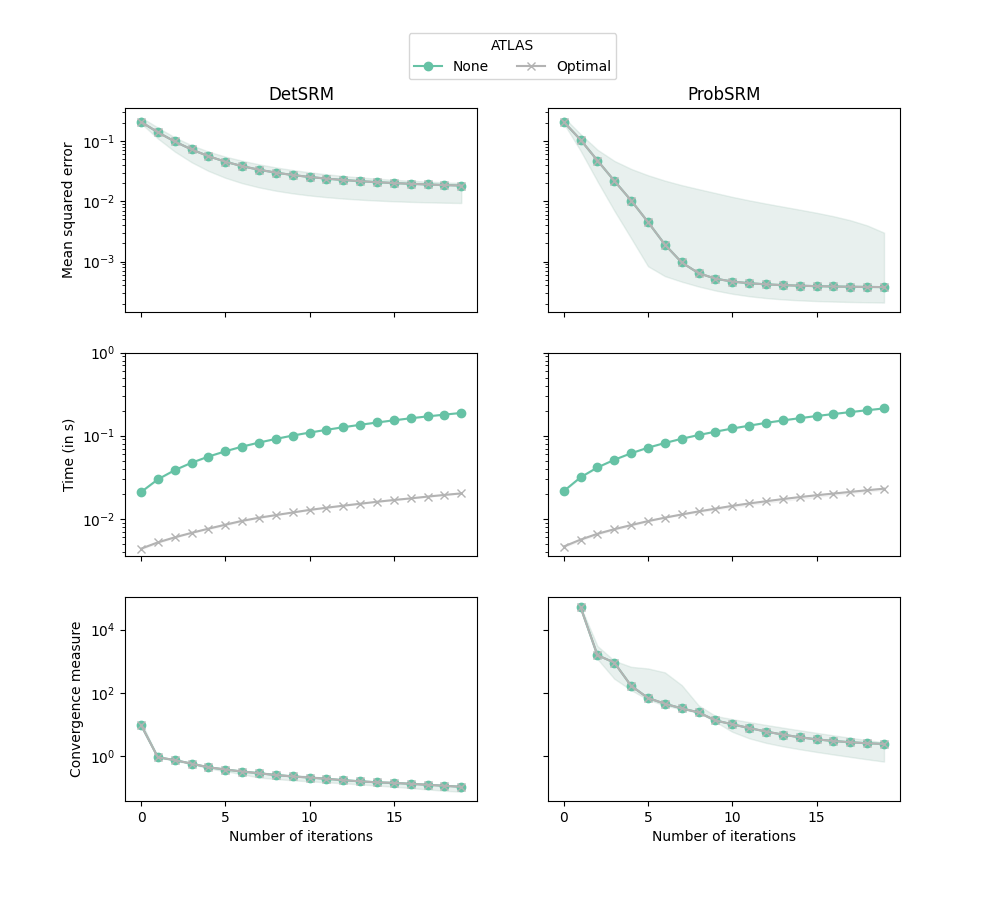
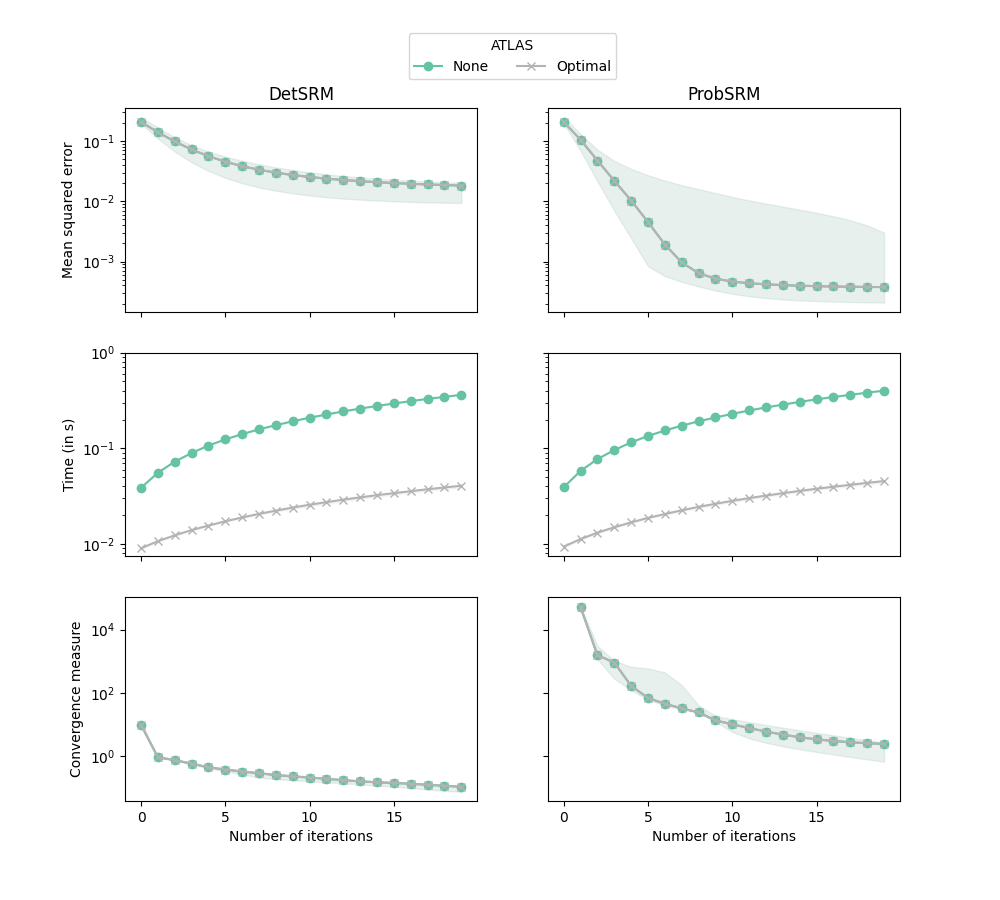
[skip ci] Updates

diff --git a/searchindex.js b/searchindex.js
@@ -1,1 +1,1 @@
-Search.setIndex({docnames:["auto_examples/index","auto_examples/plot_synthetic_toy","auto_examples/sg_execution_times","index"],envversion:{"sphinx.domains.c":2,"sphinx.domains.changeset":1,"sphinx.domains.citation":1,"sphinx.domains.cpp":4,"sphinx.domains.index":1,"sphinx.domains.javascript":2,"sphinx.domains.math":2,"sphinx.domains.python":3,"sphinx.domains.rst":2,"sphinx.domains.std":2,sphinx:56},filenames:["auto_examples/index.rst","auto_examples/plot_synthetic_toy.rst","auto_examples/sg_execution_times.rst","index.rst"],objects:{"fastsrm.fastsrm":[[3,0,1,"","fastsrm"]],"fastsrm.identifiable_srm":[[3,1,1,"","IdentifiableFastSRM"]],"fastsrm.identifiable_srm.IdentifiableFastSRM":[[3,2,1,"","add_subjects"],[3,2,1,"","clean"],[3,2,1,"","fit"],[3,2,1,"","fit_transform"],[3,2,1,"","inverse_transform"],[3,2,1,"","transform"]],"fastsrm.srm":[[3,0,1,"","detsrm"],[3,0,1,"","probsrm"]]},objnames:{"0":["py","function","Python function"],"1":["py","class","Python class"],"2":["py","method","Python method"]},objtypes:{"0":"py:function","1":"py:class","2":"py:method"},terms:{"0":[1,2,3],"00":2,"000013":1,"001":3,"03":2,"05":3,"1":[1,3],"10":[1,3],"100":3,"12":3,"12537":3,"129":1,"15":1,"1909":3,"1e":[1,3],"1e0":1,"2":[1,3],"20":[1,3],"2019":3,"25":1,"3":1,"30":1,"4486":1,"456504":1,"5":1,"685497":1,"748":[1,2],"75":1,"767339":1,"790836":1,"8":1,"9":1,"case":3,"class":3,"default":3,"do":3,"float":[1,3],"function":3,"import":1,"int":3,"new":3,"return":[1,3],"true":[1,3],A:3,At:3,If:3,The:[0,3],To:3,access:3,accuraci:1,across:3,add:3,add_subject:3,aggreg:3,algo:1,algorithm:3,algos_det:1,algos_group:1,algos_prob:1,all:[0,3],alpha:1,also:3,among:3,amount:3,an:3,ani:[1,3],anymor:3,append:[1,3],appli:3,approx:3,ar:3,arang:1,arrai:[1,3],arxiv:3,assum:3,astyp:1,atla:[1,3],attribut:3,auto:3,auto_exampl:2,auto_examples_jupyt:[0,3],auto_examples_python:[0,3],ax:1,axi:1,b:[1,3],base:1,basi:3,basis_list:3,bbox_to_anchor:1,below:3,bool:3,c:1,call:3,callback:[1,3],can:[0,3],center:1,circleci:1,clean:3,click:1,cm:1,code:[0,1,3],col:1,collect:3,color:1,compon:1,comput:[1,3],contain:3,control:3,converg:[0,2,3],coordin:3,copi:1,corrective_factor:3,covari:3,cpu:3,current:[1,3],current_it:1,current_tim:1,data:3,dataset:1,decomposit:3,def:1,delai:1,demonstr:[0,1,3],describ:3,det:[1,3],determinist:3,detsrm:1,diagon:3,did:1,diff:1,diff_b_a:1,dim:1,dir:3,dirichlet:1,disabl:3,do_exp:1,done:[0,1,3],dot:[1,3],download:[0,1,3],dure:3,each:3,element:3,els:1,enabl:3,encount:1,end:3,enumer:1,env:1,eras:3,error:[1,3],estim:3,exampl:1,execut:2,exist_ok:1,expect:3,f:1,factor:3,fall:3,fals:3,fast:[1,3],fastdet:1,fastprob:1,fastsrm:[0,2],featur:3,figsiz:1,file:[2,3],fill_between:1,fit:3,fit_transform:3,flatten:1,fmri:3,foral:3,free:3,from:[1,3],full:1,function_bas:1,galleri:1,gener:[0,1,3],get_cmap:1,given:3,gnorm:[1,3],gradient:3,h:3,ha:3,have:3,here:1,hold:3,home:1,http:3,i:[1,3],identifiable_srm:3,img:3,implicitli:3,index:1,inform:3,initi:3,input:3,instanc:3,invalid:1,inverse_transform:3,ipynb:1,iter:[1,3],itself:3,j:[1,3],joblib:1,jupyt:[0,1,3],k:1,l:3,label:1,larg:3,larger:3,legend:1,len:1,level:3,lib:1,librari:[0,3],linestyl:1,list:3,load:3,loc:1,log:[1,3],logloc:1,loss:1,low:3,m:1,makedir:1,marker:1,markeveri:1,martin:3,matplotlib:1,mb:2,mean:[1,3],measur:1,median:1,memori:3,method:[1,3],miniconda3:1,minor:1,minut:1,model:3,much:3,multi:3,multipleloc:1,n:[1,3],n_compon:3,n_featur:3,n_iter:[1,3],n_job:3,n_sampl:3,n_session:3,n_subject:3,n_timefram:3,n_view:3,n_voxel:3,name:1,ncol:1,need:3,nois:3,noise_vari:3,none:[1,3],norm:3,note:3,notebook:[0,1,3],noth:3,np:[1,3],number:[1,3],numpi:[1,3],numtick:1,o:1,object:3,one:3,ones:1,onli:3,optim:1,option:3,org:3,orthogon:3,os:1,otherwis:3,out:1,packag:1,parallel:1,paramet:3,path:3,pca:3,pdf:3,per:3,perform:3,pillow:3,pinho:3,plot:1,plot_synthetic_toi:[1,2],plt:1,plticker:1,power:3,prefer:3,preprocess:3,print:[1,3],prob:[1,3],probabilist:3,probsrm:1,prod:1,project:[1,3],provid:[0,3],py:[1,2],pyplot:1,python3:1,python:[0,1,3],quantil:1,rand:1,randn:1,random:[1,3],random_st:[1,3],randomst:[1,3],rang:1,re:1,reconstruct:3,reconstructed_data:3,record:3,reduc:3,refer:3,reg_error:1,respons:3,ress:1,result:[1,3],richard2019:3,richard:3,rng:1,row:1,run:[0,2,3],runtimewarn:1,s:[1,3],s_true:1,same:3,sampl:[0,3],save:3,script:1,second:1,seed:1,self:3,session:3,sessions_index:3,set2:1,set:3,set_minor_loc:1,set_titl:1,set_xlabel:1,set_ylabel:1,set_yscal:1,set_ytick:1,shape:3,share:[1,3],shared_respons:3,sharei:1,sharex:1,should:3,show:1,sigma:[1,3],site:1,small:1,so:3,sourc:[0,1,3],source_covari:3,space:3,specif:3,specifi:3,speed:1,sphinx:[0,1,3],sqrt:1,squar:1,srm:[1,3],start:1,step:3,stop:3,store:3,str:3,sub:1,subject:3,subject_index:3,subjects_index:3,subplot:1,subtract:1,t0:3,t_init:1,temp_dir:3,temporari:3,testenv:1,than:3,thank:3,thi:[1,3],thirion:3,tick_param:1,ticker:1,time:[0,3],timecours:3,titl:1,tol:[1,3],toler:3,total:[1,2],train:3,transform:3,type:3,up:1,upper:1,us:[1,3],use_pca:3,util:1,v:1,valu:[1,3],vari:3,varianc:3,verbos:3,veri:[1,3],vir:1,voxel:3,w:[1,3],w_i:3,warn:3,what:[0,3],when:3,where:3,which:[1,3],without:1,work:[0,3],x:[1,3],x_i:3,y:1,y_minor:1,yaxi:1,yield:3,zip:[0,3]},titles:["Examples Gallery","FastSRM : running time and convergence","Computation times","Examples Gallery"],titleterms:{comput:2,converg:1,detsrm:3,exampl:[0,3],fastsrm:[1,3],galleri:[0,3],identifiablefastsrm:3,probsrm:3,run:1,time:[1,2]}})
+Search.setIndex({docnames:["auto_examples/index","auto_examples/plot_synthetic_toy","auto_examples/sg_execution_times","index"],envversion:{"sphinx.domains.c":2,"sphinx.domains.changeset":1,"sphinx.domains.citation":1,"sphinx.domains.cpp":4,"sphinx.domains.index":1,"sphinx.domains.javascript":2,"sphinx.domains.math":2,"sphinx.domains.python":3,"sphinx.domains.rst":2,"sphinx.domains.std":2,sphinx:56},filenames:["auto_examples/index.rst","auto_examples/plot_synthetic_toy.rst","auto_examples/sg_execution_times.rst","index.rst"],objects:{"fastsrm.fastsrm":[[3,0,1,"","fastsrm"]],"fastsrm.identifiable_srm":[[3,1,1,"","IdentifiableFastSRM"]],"fastsrm.identifiable_srm.IdentifiableFastSRM":[[3,2,1,"","add_subjects"],[3,2,1,"","clean"],[3,2,1,"","fit"],[3,2,1,"","fit_transform"],[3,2,1,"","inverse_transform"],[3,2,1,"","transform"]],"fastsrm.srm":[[3,0,1,"","detsrm"],[3,0,1,"","probsrm"]]},objnames:{"0":["py","function","Python function"],"1":["py","class","Python class"],"2":["py","method","Python method"]},objtypes:{"0":"py:function","1":"py:class","2":"py:method"},terms:{"0":[1,2,3],"00":2,"000013":1,"001":3,"05":3,"07":2,"1":[1,3],"10":[1,3],"100":3,"12":3,"12537":3,"129":1,"15":1,"1909":3,"1e":[1,3],"1e0":1,"2":[1,3],"20":[1,3],"2019":3,"25":1,"289":[1,2],"3":1,"30":1,"4486":1,"456504":1,"5":1,"685497":1,"7":1,"75":1,"767339":1,"790836":1,"8":1,"9":1,"case":3,"class":3,"default":3,"do":3,"float":[1,3],"function":3,"import":1,"int":3,"new":3,"return":[1,3],"true":[1,3],A:3,At:3,If:3,The:[0,3],To:3,access:3,accuraci:1,across:3,add:3,add_subject:3,aggreg:3,algo:1,algorithm:3,algos_det:1,algos_group:1,algos_prob:1,all:[0,3],alpha:1,also:3,among:3,amount:3,an:3,ani:[1,3],anymor:3,append:[1,3],appli:3,approx:3,ar:3,arang:1,arrai:[1,3],arxiv:3,assum:3,astyp:1,atla:[1,3],attribut:3,auto:3,auto_exampl:2,auto_examples_jupyt:[0,3],auto_examples_python:[0,3],ax:1,axi:1,b:[1,3],base:1,basi:3,basis_list:3,bbox_to_anchor:1,below:3,bool:3,c:1,call:3,callback:[1,3],can:[0,3],center:1,circleci:1,clean:3,click:1,cm:1,code:[0,1,3],col:1,collect:3,color:1,compon:1,comput:[1,3],contain:3,control:3,converg:[0,2,3],coordin:3,copi:1,corrective_factor:3,covari:3,cpu:3,current:[1,3],current_it:1,current_tim:1,data:3,dataset:1,decomposit:3,def:1,delai:1,demonstr:[0,1,3],describ:3,det:[1,3],determinist:3,detsrm:1,diagon:3,did:1,diff:1,diff_b_a:1,dim:1,dir:3,dirichlet:1,disabl:3,do_exp:1,done:[0,1,3],dot:[1,3],download:[0,1,3],dure:3,each:3,element:3,els:1,enabl:3,encount:1,end:3,enumer:1,env:1,eras:3,error:[1,3],estim:3,exampl:1,execut:2,exist_ok:1,expect:3,f:1,factor:3,fall:3,fals:3,fast:[1,3],fastdet:1,fastprob:1,fastsrm:[0,2],featur:3,figsiz:1,file:[2,3],fill_between:1,fit:3,fit_transform:3,flatten:1,fmri:3,foral:3,free:3,from:[1,3],full:1,function_bas:1,galleri:1,gener:[0,1,3],get_cmap:1,given:3,gnorm:[1,3],gradient:3,h:3,ha:3,have:3,here:1,hold:3,home:1,http:3,i:[1,3],identifiable_srm:3,img:3,implicitli:3,index:1,inform:3,initi:3,input:3,instanc:3,invalid:1,inverse_transform:3,ipynb:1,iter:[1,3],itself:3,j:[1,3],joblib:1,jupyt:[0,1,3],k:1,l:3,label:1,larg:3,larger:3,legend:1,len:1,level:3,lib:1,librari:[0,3],linestyl:1,list:3,load:3,loc:1,log:[1,3],logloc:1,loss:1,low:3,m:1,makedir:1,marker:1,markeveri:1,martin:3,matplotlib:1,mb:2,mean:[1,3],measur:1,median:1,memori:3,method:[1,3],miniconda3:1,minor:1,minut:1,model:3,much:3,multi:3,multipleloc:1,n:[1,3],n_compon:3,n_featur:3,n_iter:[1,3],n_job:3,n_sampl:3,n_session:3,n_subject:3,n_timefram:3,n_view:3,n_voxel:3,name:1,ncol:1,need:3,nois:3,noise_vari:3,none:[1,3],norm:3,note:3,notebook:[0,1,3],noth:3,np:[1,3],number:[1,3],numpi:[1,3],numtick:1,o:1,object:3,one:3,ones:1,onli:3,optim:1,option:3,org:3,orthogon:3,os:1,otherwis:3,out:1,packag:1,parallel:1,paramet:3,path:3,pca:3,pdf:3,per:3,perform:3,pillow:3,pinho:3,plot:1,plot_synthetic_toi:[1,2],plt:1,plticker:1,power:3,prefer:3,preprocess:3,print:[1,3],prob:[1,3],probabilist:3,probsrm:1,prod:1,project:[1,3],provid:[0,3],py:[1,2],pyplot:1,python3:1,python:[0,1,3],quantil:1,rand:1,randn:1,random:[1,3],random_st:[1,3],randomst:[1,3],rang:1,re:1,reconstruct:3,reconstructed_data:3,record:3,reduc:3,refer:3,reg_error:1,respons:3,ress:1,result:[1,3],richard2019:3,richard:3,rng:1,row:1,run:[0,2,3],runtimewarn:1,s:[1,3],s_true:1,same:3,sampl:[0,3],save:3,script:1,second:1,seed:1,self:3,session:3,sessions_index:3,set2:1,set:3,set_minor_loc:1,set_titl:1,set_xlabel:1,set_ylabel:1,set_yscal:1,set_ytick:1,shape:3,share:[1,3],shared_respons:3,sharei:1,sharex:1,should:3,show:1,sigma:[1,3],site:1,small:1,so:3,sourc:[0,1,3],source_covari:3,space:3,specif:3,specifi:3,speed:1,sphinx:[0,1,3],sqrt:1,squar:1,srm:[1,3],start:1,step:3,stop:3,store:3,str:3,sub:1,subject:3,subject_index:3,subjects_index:3,subplot:1,subtract:1,t0:3,t_init:1,temp_dir:3,temporari:3,testenv:1,than:3,thank:3,thi:[1,3],thirion:3,tick_param:1,ticker:1,time:[0,3],timecours:3,titl:1,tol:[1,3],toler:3,total:[1,2],train:3,transform:3,type:3,up:1,upper:1,us:[1,3],use_pca:3,util:1,v:1,valu:[1,3],vari:3,varianc:3,verbos:3,veri:[1,3],vir:1,voxel:3,w:[1,3],w_i:3,warn:3,what:[0,3],when:3,where:3,which:[1,3],without:1,work:[0,3],x:[1,3],x_i:3,y:1,y_minor:1,yaxi:1,yield:3,zip:[0,3]},titles:["Examples Gallery","FastSRM : running time and convergence","Computation times","Examples Gallery"],titleterms:{comput:2,converg:1,detsrm:3,exampl:[0,3],fastsrm:[1,3],galleri:[0,3],identifiablefastsrm:3,probsrm:3,run:1,time:[1,2]}})

diff --git a/auto_examples/plot_synthetic_toy.html b/auto_examples/plot_synthetic_toy.html
@@ -274,7 +274,7 @@ Done
 <span class="nb">print</span><span class="p">(</span><span class="s2">&quot;Done&quot;</span><span class="p">)</span>
 </pre></div>
 </div>
-<p class="sphx-glr-timing"><strong>Total running time of the script:</strong> ( 0 minutes  3.748 seconds)</p>
+<p class="sphx-glr-timing"><strong>Total running time of the script:</strong> ( 0 minutes  7.289 seconds)</p>
 <div class="sphx-glr-footer class sphx-glr-footer-example docutils container" id="sphx-glr-download-auto-examples-plot-synthetic-toy-py">
 <div class="sphx-glr-download sphx-glr-download-python docutils container">
 <p><a class="reference download internal" download="" href="../_downloads/eefa709bfa15f19e4cbfadab95d67431/plot_synthetic_toy.py"><code class="xref download docutils literal notranslate"><span class="pre">Download</span> <span class="pre">Python</span> <span class="pre">source</span> <span class="pre">code:</span> <span class="pre">plot_synthetic_toy.py</span></code></a></p>

diff --git a/auto_examples/sg_execution_times.html b/auto_examples/sg_execution_times.html
@@ -69,7 +69,7 @@
              
   <section id="computation-times">
 <span id="sphx-glr-auto-examples-sg-execution-times"></span><h1>Computation times<a class="headerlink" href="#computation-times" title="Permalink to this headline"></a></h1>
-<p><strong>00:03.748</strong> total execution time for <strong>auto_examples</strong> files:</p>
+<p><strong>00:07.289</strong> total execution time for <strong>auto_examples</strong> files:</p>
 <table class="docutils align-default">
 <colgroup>
 <col style="width: 81%" />
@@ -78,7 +78,7 @@
 </colgroup>
 <tbody>
 <tr class="row-odd"><td><p><a class="reference internal" href="plot_synthetic_toy.html#sphx-glr-auto-examples-plot-synthetic-toy-py"><span class="std std-ref">FastSRM : running time and convergence</span></a> (<code class="docutils literal notranslate"><span class="pre">plot_synthetic_toy.py</span></code>)</p></td>
-<td><p>00:03.748</p></td>
+<td><p>00:07.289</p></td>
 <td><p>0.0 MB</p></td>
 </tr>
 </tbody>
